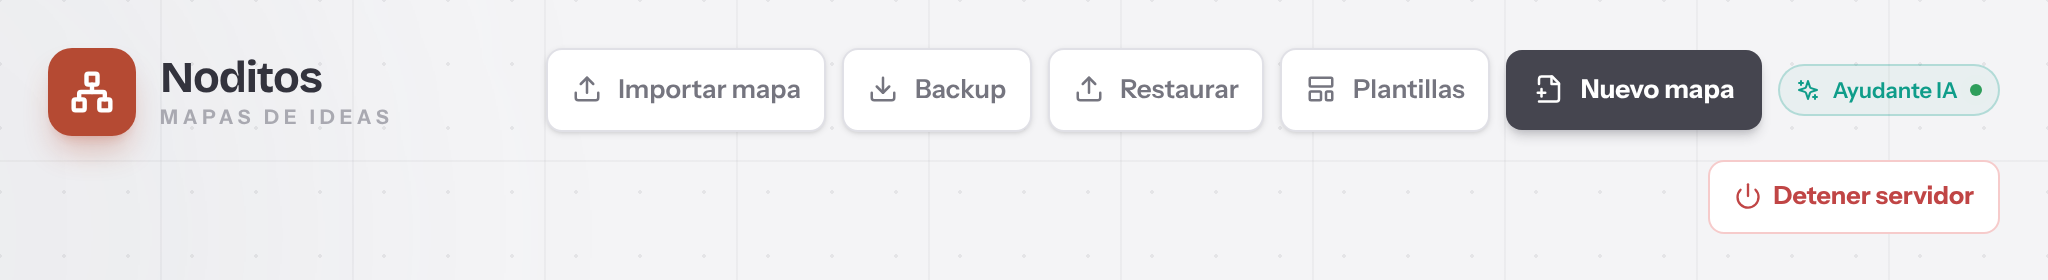
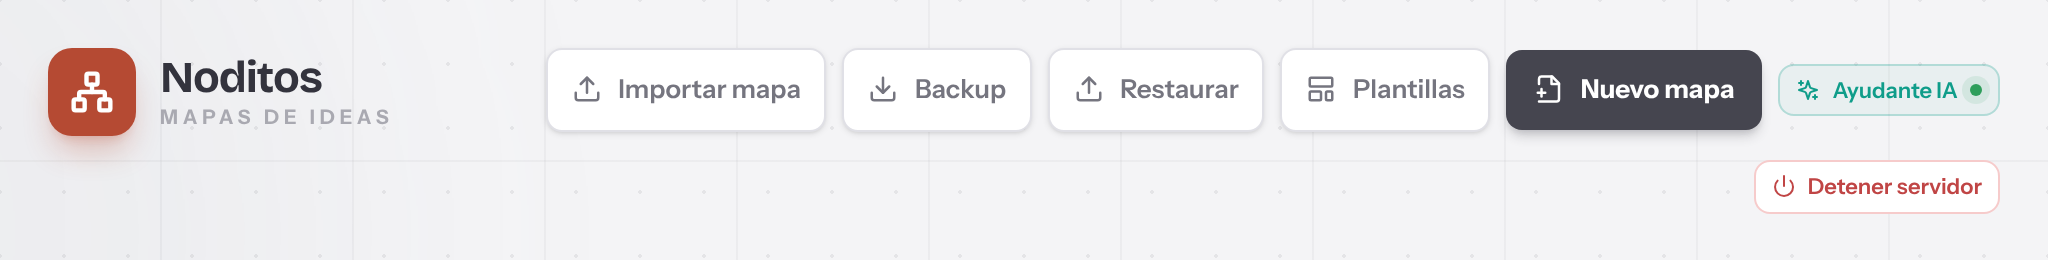
Biblioteca: Ayudante IA con esquinas cuadradas y Detener servidor del mismo tamaño
- El chip de Ayudante IA pasa de píldora (rounded-full) a rectángulo
  con rounded-lg, como el resto de los botones.
- "Detener servidor" se compacta al mismo tamaño exacto que el chip
  de Ayudante IA: px-2 py-1, texto de 11px, semibold e icono de 12px
  (27px de alto ambos), manteniendo su color de peligro.

diff --git a/src/components/LibraryScreen.tsx b/src/components/LibraryScreen.tsx
@@ -152,7 +152,7 @@ function AiSettingsButton({ onOpen }: { onOpen: () => void }) {
     <button
       onClick={onOpen}
       title={configured ? `Ayudante IA conectado a ${provider?.name ?? cfg.provider}` : "Configurar el Ayudante IA"}
-      className={`group flex items-center gap-1.5 self-center rounded-full border px-2 py-1 text-[11px] font-semibold transition active:translate-y-px ${
+      className={`group flex items-center gap-1.5 self-center rounded-lg border px-2 py-1 text-[11px] font-semibold transition active:translate-y-px ${
         configured
           ? "border-teal-brand/25 bg-teal-brand/5 text-teal-brand hover:bg-teal-brand/10"
           : "border-ink-200 bg-white/70 text-ink-400 hover:border-ink-300 hover:bg-white hover:text-ink-600"
@@ -273,13 +273,13 @@ export function LibraryScreen({
               <button
                 onClick={onRequestStop}
                 disabled={stopped}
-                className={`flex items-center gap-1.5 rounded-lg border px-3 py-2 text-[12.5px] font-bold transition active:translate-y-px ${
+                className={`flex items-center gap-1.5 rounded-lg border px-2 py-1 text-[11px] font-semibold transition active:translate-y-px ${
                   stopped
                     ? "cursor-default border-ink-200 text-ink-400"
                     : "border-[#e05252]/30 bg-white text-[#c04545] hover:bg-[#e05252]/5"
                 }`}
               >
-                <Power size={14} />
+                <Power size={12} />
                 {stopped ? "Servidor detenido" : "Detener servidor"}
               </button>
             </div>
